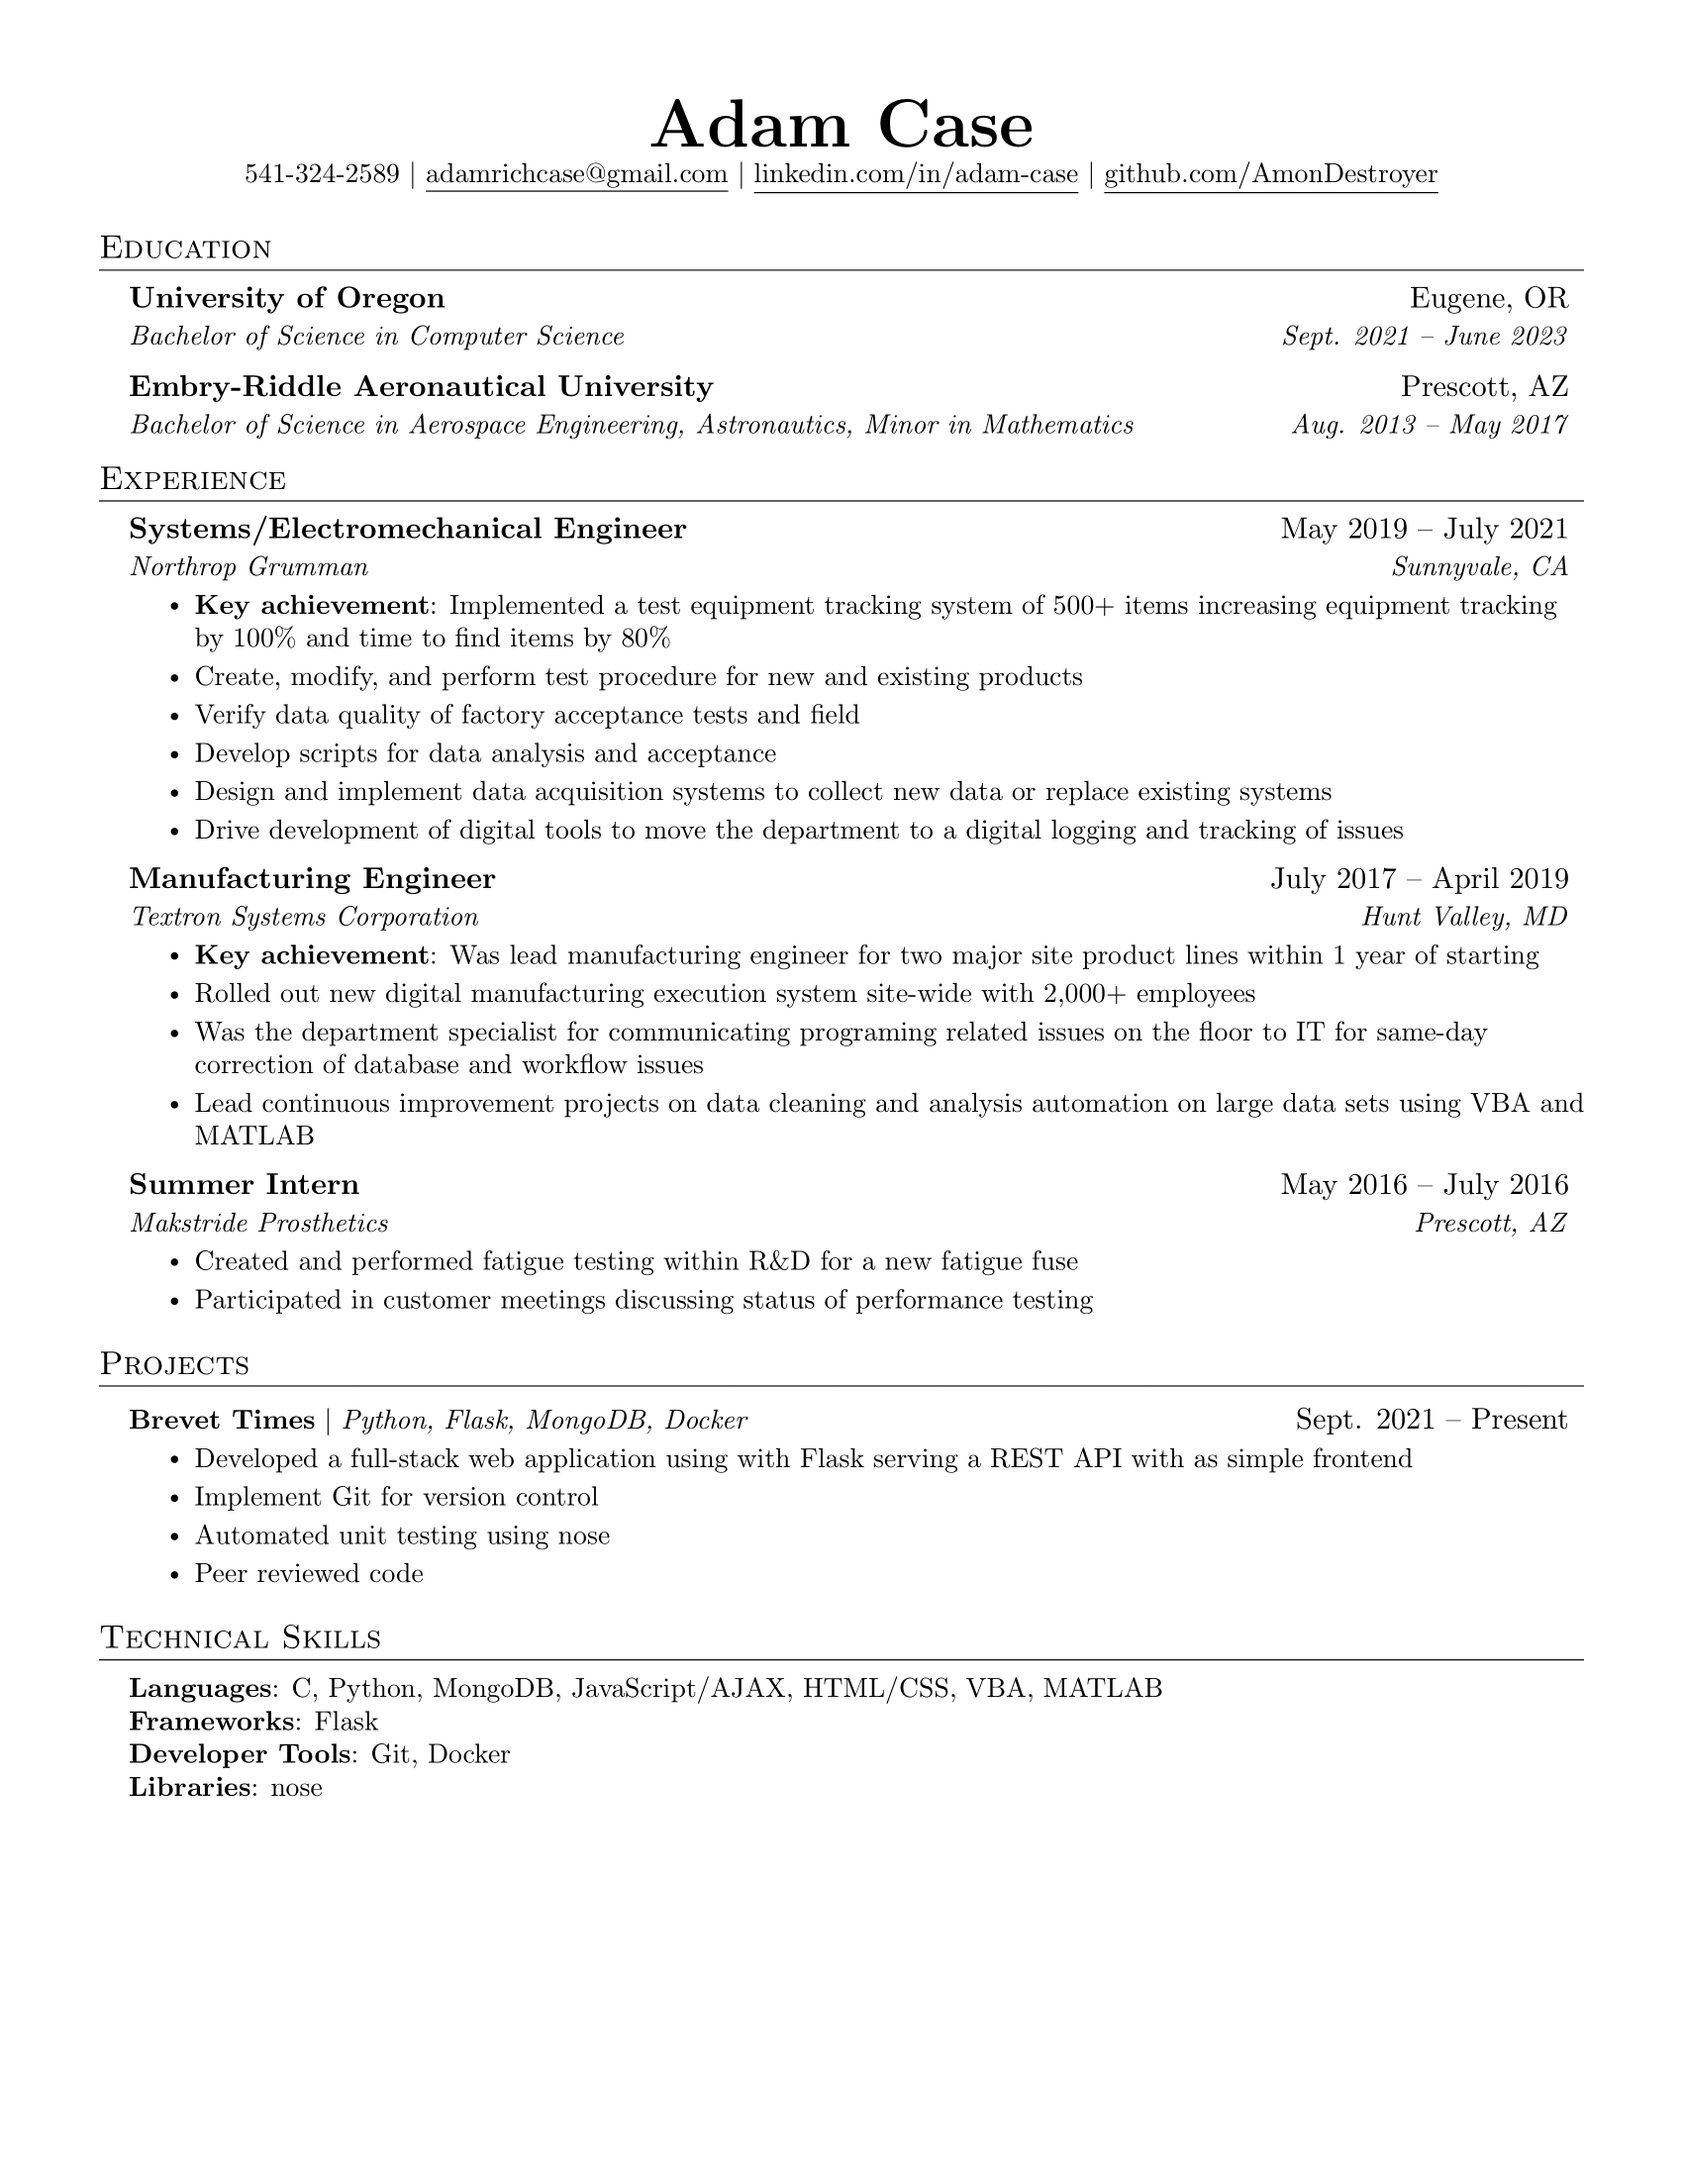
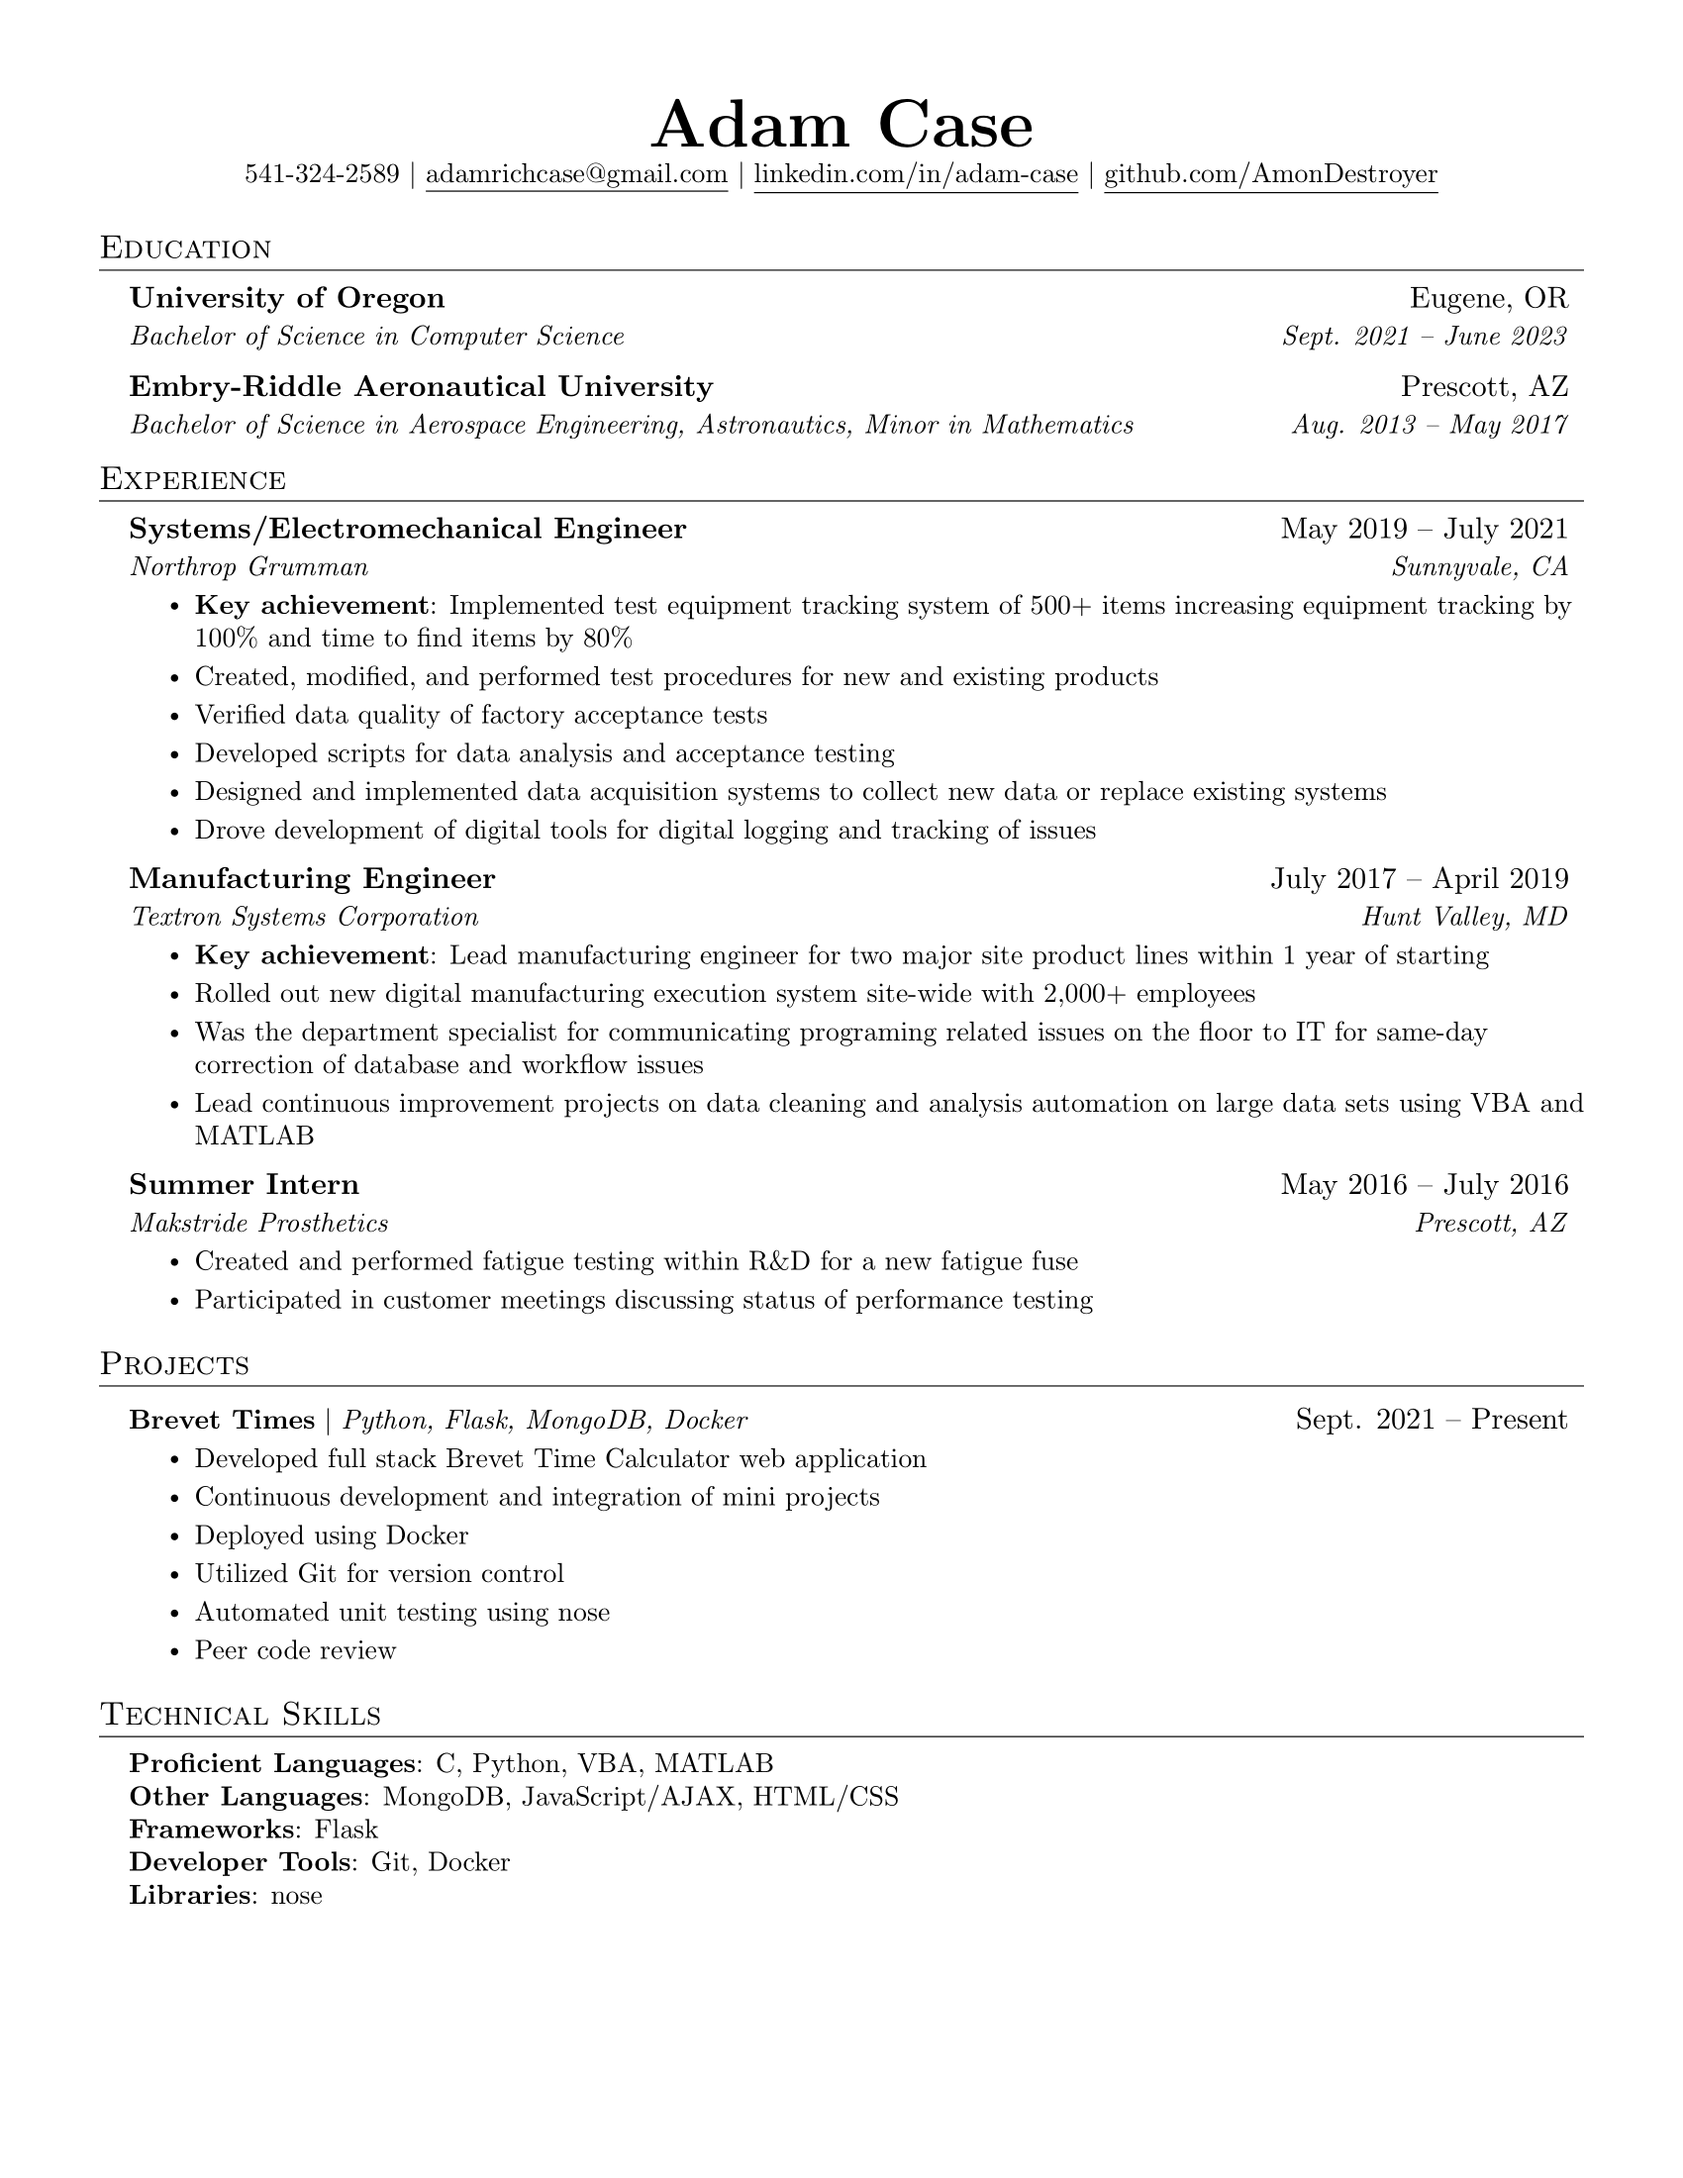
Updated Projects

diff --git a/resume.tex b/resume.tex
@@ -133,7 +133,6 @@
 
 
 %-----------EXPERIENCE-----------
-%TODO: Update Experiences
 \section{Experience}
   \resumeSubHeadingListStart
 
@@ -141,12 +140,12 @@
       {Systems/Electromechanical Engineer}{May 2019 -- July 2021}
       {Northrop Grumman}{Sunnyvale, CA}
       \resumeItemListStart
-        \resumeItem{\textbf{Key achievement}: Implemented a test equipment tracking system of 500+ items increasing equipment tracking by 100\% and time to find items by 80\%}
-        \resumeItem{Create, modify, and perform test procedure for new and existing products}
-        \resumeItem{Verify data quality of factory acceptance tests and field}
-        \resumeItem{Develop scripts for data analysis and acceptance}
-        \resumeItem{Design and implement data acquisition systems to collect new data or replace existing systems}
-        \resumeItem{Drive development of digital tools to move the department to a digital logging and tracking of issues}
+        \resumeItem{\textbf{Key achievement}: Implemented test equipment tracking system of 500+ items increasing equipment tracking by 100\% and time to find items by 80\%}
+        \resumeItem{Created, modified, and performed test procedures for new and existing products}
+        \resumeItem{Verified data quality of factory acceptance tests}
+        \resumeItem{Developed scripts for data analysis and acceptance testing}
+        \resumeItem{Designed and implemented data acquisition systems to collect new data or replace existing systems}
+        \resumeItem{Drove development of digital tools for digital logging and tracking of issues}
       \resumeItemListEnd
 
 % -----------Multiple Positions Heading-----------
@@ -163,7 +162,7 @@
       {Manufacturing Engineer}{July 2017 -- April 2019}
       {Textron Systems Corporation}{Hunt Valley, MD}
       \resumeItemListStart
-        \resumeItem{\textbf{Key achievement}: Was lead manufacturing engineer for two major site product lines within 1 year of starting}
+        \resumeItem{\textbf{Key achievement}: Lead manufacturing engineer for two major site product lines within 1 year of starting}
         \resumeItem{Rolled out new digital manufacturing execution system site-wide with 2,000+ employees}
         \resumeItem{Was the department specialist for communicating programing related issues on the floor to IT for same-day correction of database and workflow issues}
         \resumeItem{Lead continuous improvement projects on data cleaning and analysis automation on large data sets using VBA and MATLAB}
@@ -181,16 +180,17 @@
 
 
 %-----------PROJECTS-----------
-%TODO: Update all projects
 \section{Projects}
     \resumeSubHeadingListStart
       \resumeProjectHeading
-          {\textbf{Brevet Times} $|$ \emph{Python, Flask, MongoDB, Docker}}{Sept. 2021 -- Present}
+          {\href{https://github.com/AmonDestroyer/brevets}{\textbf{Brevet Times}} $|$ \emph{Python, Flask, MongoDB, Docker}}{Sept. 2021 -- Present}
           \resumeItemListStart
-            \resumeItem{Developed a full-stack web application using with Flask serving a REST API with as simple frontend}
-            \resumeItem{Implement Git for version control}
+            \resumeItem{Developed full stack Brevet Time Calculator web application}
+            \resumeItem{Continuous development and integration of mini projects}
+            \resumeItem{Deployed using Docker}
+            \resumeItem{Utilized Git for version control}
             \resumeItem{Automated unit testing using nose}
-            \resumeItem{Peer reviewed code}
+            \resumeItem{Peer code review}
           \resumeItemListEnd
     \resumeSubHeadingListEnd
 
@@ -201,7 +201,8 @@
 \section{Technical Skills}
  \begin{itemize}[leftmargin=0.15in, label={}]
     \small{\item{
-     \textbf{Languages}{: C, Python, MongoDB, JavaScript/AJAX, HTML/CSS, VBA, MATLAB} \\
+     \textbf{Proficient Languages}{: C, Python, VBA, MATLAB} \\
+     \textbf{Other Languages}{: MongoDB, JavaScript/AJAX, HTML/CSS} \\
      \textbf{Frameworks}{: Flask} \\
      \textbf{Developer Tools}{: Git, Docker} \\
      \textbf{Libraries}{: nose}
